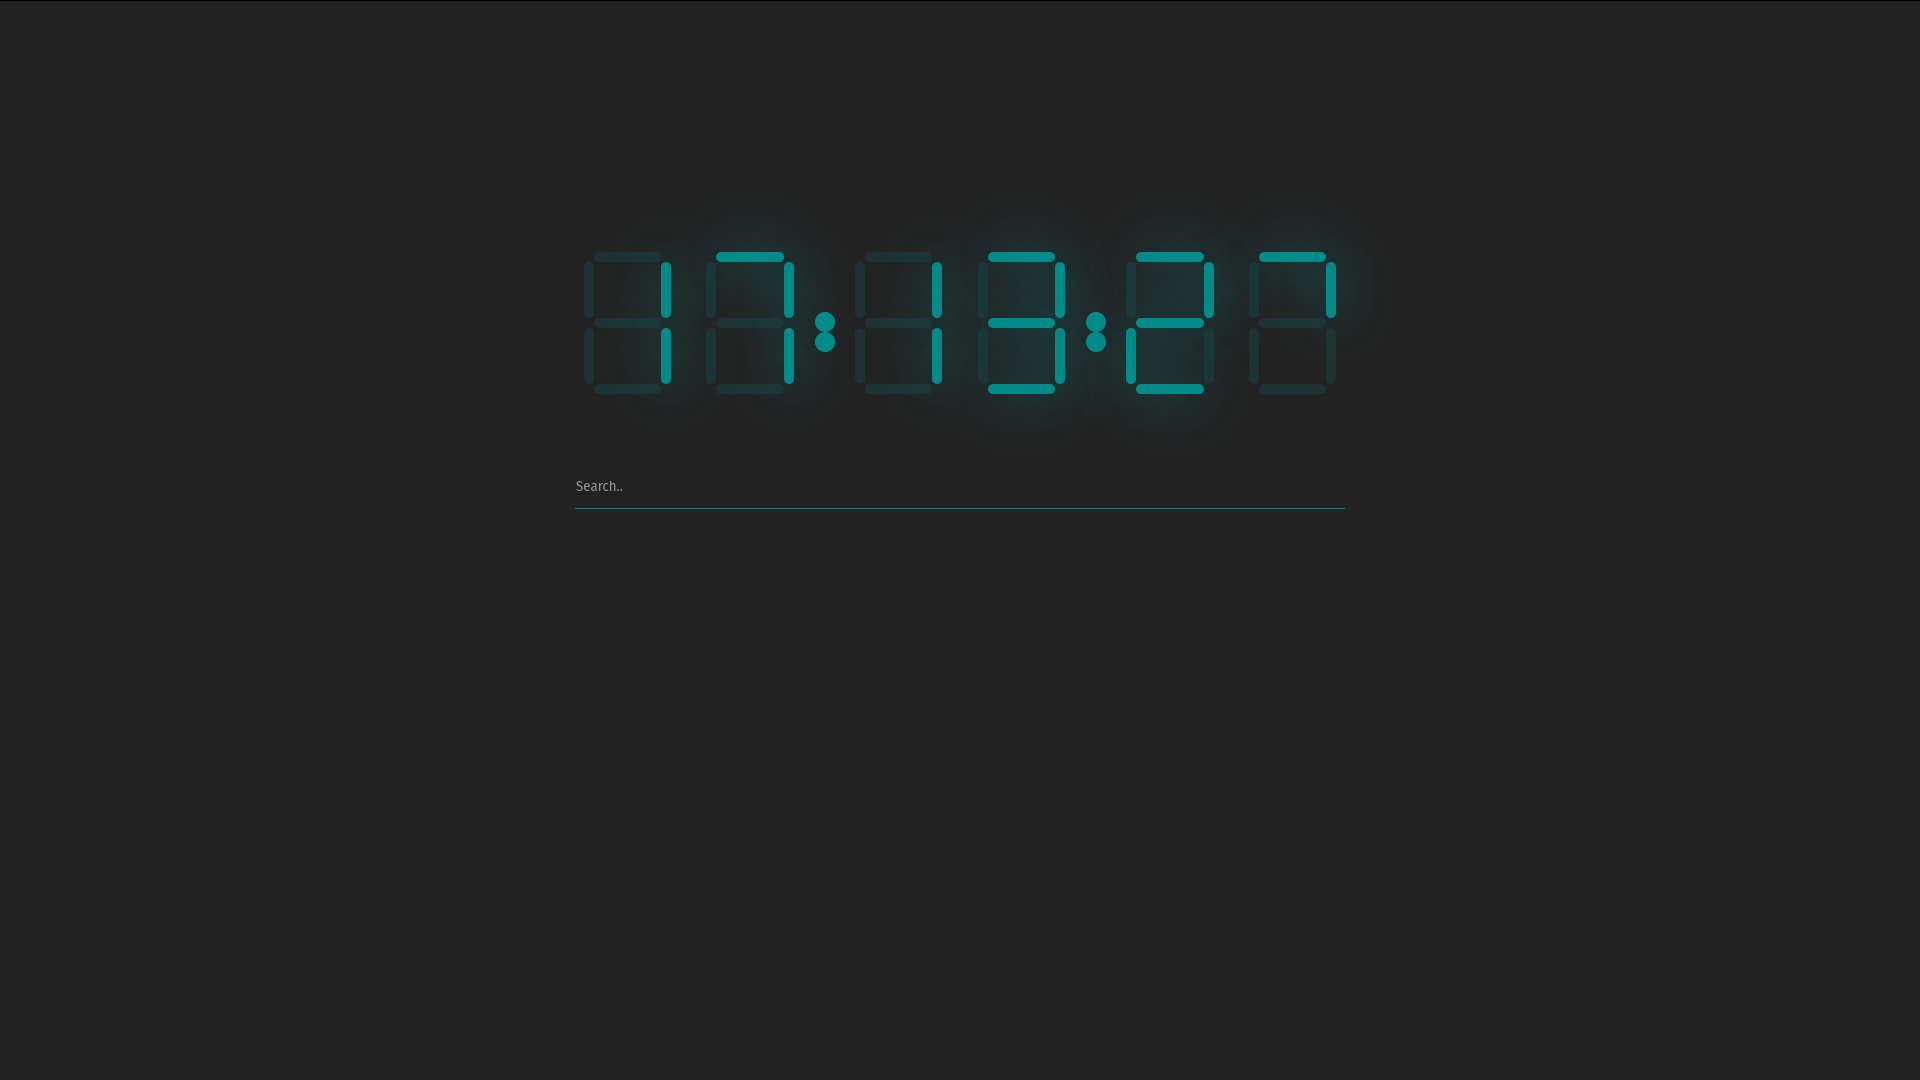
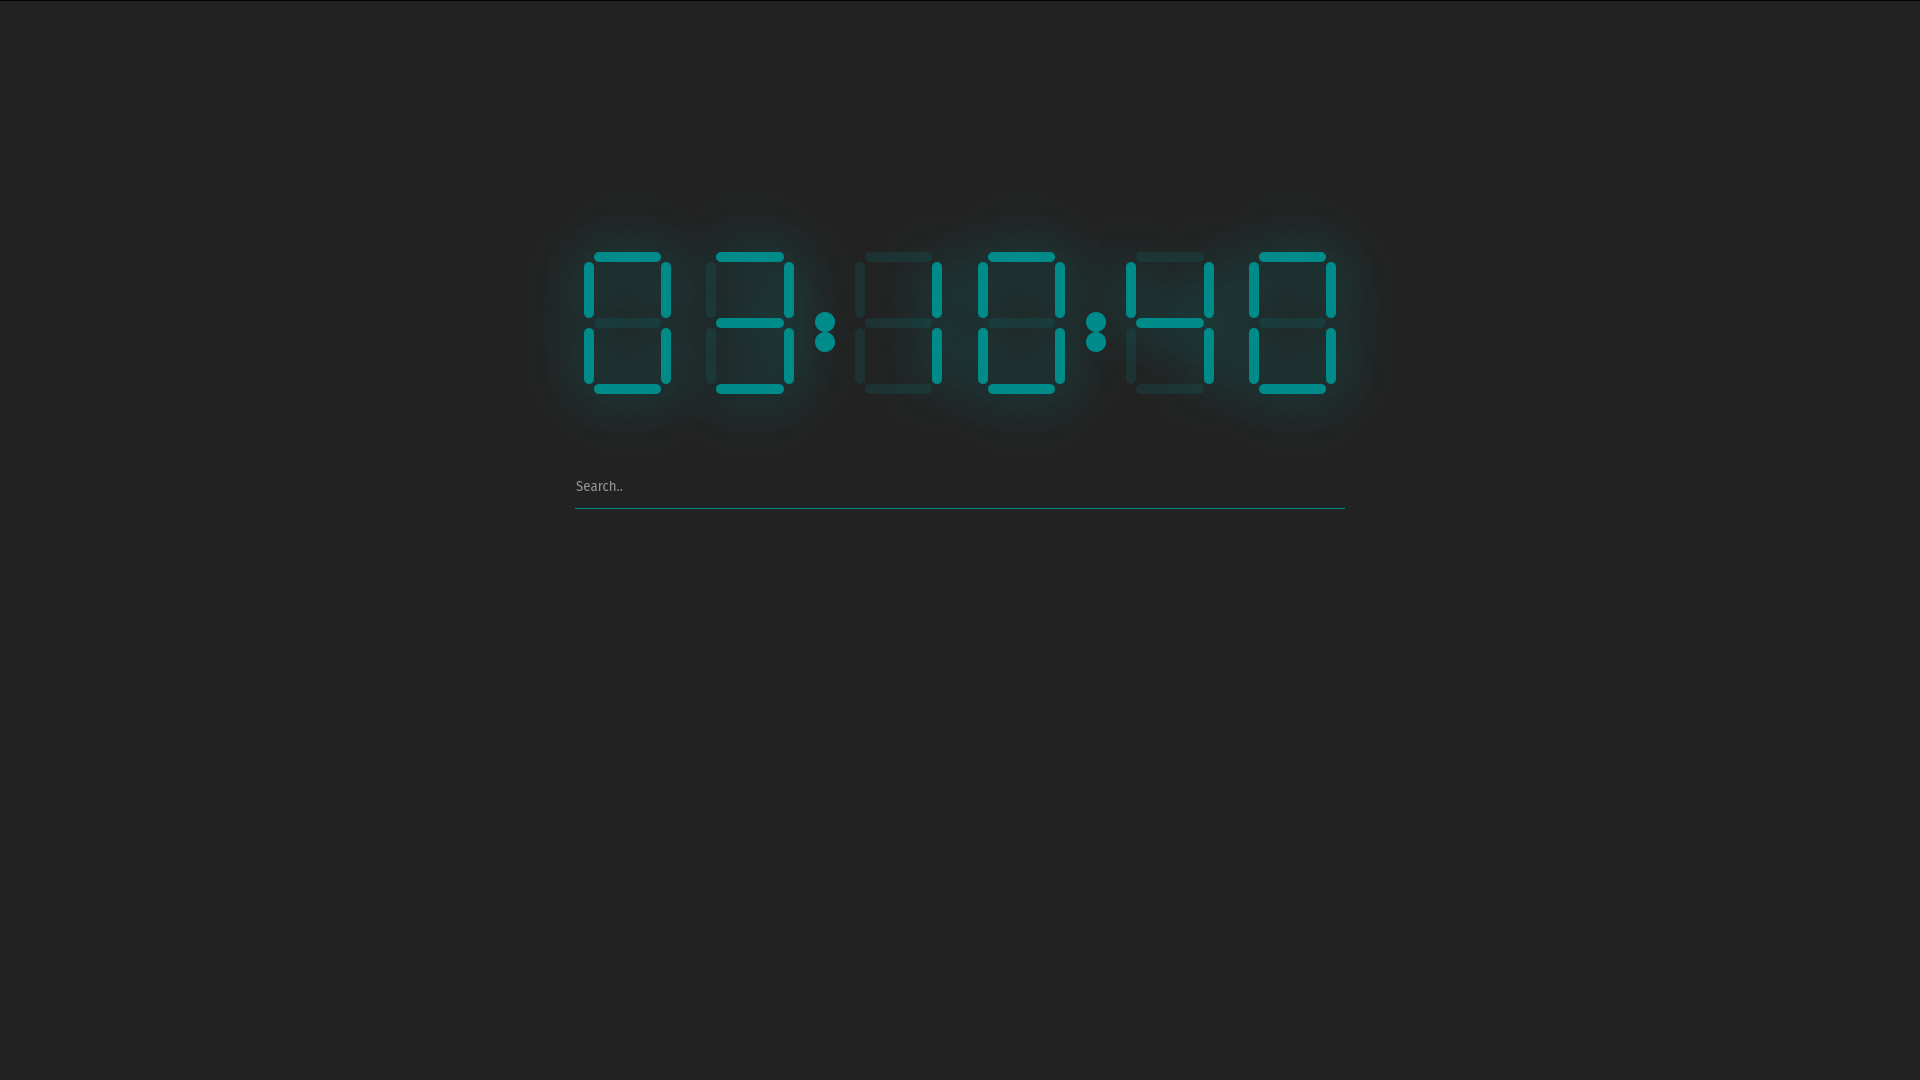
made clock into a 12 hour clock

diff --git a/script.js b/script.js
@@ -46,9 +46,9 @@ window.onload = function(){
 //     document.getElementById('txt').innerContent = time;
 //     var t = setTimeout(showTime, 1000);
 // }
-// function double_digits(n) {
-//     return (n<10)?"0"+n:n;
-// }
+function double_digits(n) {
+    return (n<10)?"0"+n:n;
+}
 var digitSegments = [
     [1,2,3,4,5,6],
     [2,3],
@@ -69,7 +69,12 @@ document.addEventListener('DOMContentLoaded', function() {
 
   setInterval(function() {
     var date = new Date();
+    var session = "AM";
     var hours = date.getHours(), minutes = date.getMinutes(), seconds = date.getSeconds();
+    if(hours==0){hours=12;}
+    if(hours>12){hours=hours-12;session="PM";}
+    hours=double_digits(hours);
+    minutes=double_digits(minutes);
 
     setNumber(_hours[0], Math.floor(hours/10), 1);
     setNumber(_hours[1], hours%10, 1);
@@ -79,8 +84,13 @@ document.addEventListener('DOMContentLoaded', function() {
 
     setNumber(_seconds[0], Math.floor(seconds/10), 1);
     setNumber(_seconds[1], seconds%10, 1);
+    setSession(setSession);
   }, 1000);
 });
+
+var setSession = function(s) {
+    var searchBox = document.getElementById('session');
+}
 
 var setNumber = function(digit, number, on) {
   var segments = digit.querySelectorAll('.segment');
